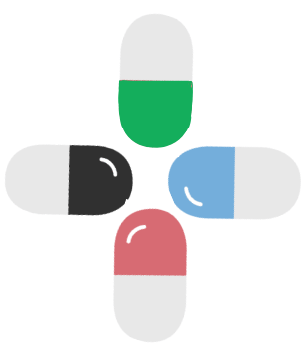
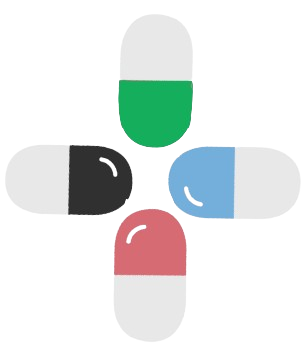
ajout Prise journalière

diff --git a/src/context/MedicationContext.tsx b/src/context/MedicationContext.tsx
@@ -41,6 +41,7 @@ export type Medication = {
 type MedicationContextType = {
   medications: Medication[];
   setMedications: (medications: Medication[]) => void;
+  medToday : Medication[]
 };
 
 // Création du contexte MedicationContext avec une valeur par défaut de undefined.
@@ -70,8 +71,8 @@ export const useMedication = (): MedicationContextType => {
  * @returns {JSX.Element} - Le composant `MedicationProvider` qui enveloppe les enfants.
  */
 export const MedicationProvider: React.FC<{ children: ReactNode }> = ({ children }) => {
-  // État local pour stocker la liste des médicaments.
   const [medications, setMedications] = useState<Medication[]>([]);
+  const [medToday, setMedToday] = useState<Medication[]>([]);
 
   /**
    * Fonction pour charger les médicaments depuis AsyncStorage au démarrage de l'application.
@@ -79,7 +80,6 @@ export const MedicationProvider: React.FC<{ children: ReactNode }> = ({ children
    */
   const loadMedications = async () => {
     try {
-      // Tente de récupérer les médicaments sauvegardés dans AsyncStorage.
       const storedMedications = await AsyncStorage.getItem('medications');
       if (storedMedications) {
         // Si des médicaments sont trouvés, on les parse et les met dans l'état.
@@ -89,11 +89,17 @@ export const MedicationProvider: React.FC<{ children: ReactNode }> = ({ children
       console.error('Erreur lors du chargement des médicaments:', error);
     }
   };
-
-  // Utilisation de useEffect pour appeler loadMedications une seule fois au démarrage.
   useEffect(() => {
     loadMedications();
-  }, []); // Le tableau vide [] garantit que l'effet est exécuté une seule fois lors du montage.
+  }, []); 
+
+  useEffect(() => {
+    if (medications.length > 0) {
+      countMedicationsForToday(medications);
+    }
+  }, [medications]);
+
+
 
   /**
    * Fonction pour mettre à jour les médicaments dans l'état local et dans AsyncStorage.
@@ -106,8 +112,30 @@ export const MedicationProvider: React.FC<{ children: ReactNode }> = ({ children
     await AsyncStorage.setItem('medications', JSON.stringify(newMedications));
   };
 
+
+  const countMedicationsForToday = (medications: Medication[]) => {
+    const dateObject = new Date();
+    const dateString = dateObject.toLocaleDateString('fr-FR');
+    const [jour, mois, annee] = dateString.split('/');
+    const todayIso = `${annee}-${mois}-${jour}`;
+  
+    let medicationsForToday: Medication[] = [];
+  
+    medications.forEach((elem) => {
+      elem.date?.forEach((date) => {
+        console.log("test :", date, todayIso)
+        if (date === todayIso) {
+          medicationsForToday.push(elem);  
+        }
+      });
+    });
+  
+    setMedToday(medicationsForToday);  
+  };
+  
+
   return (
-    <MedicationContext.Provider value={{ medications, setMedications: updateMedications }}>
+    <MedicationContext.Provider value={{ medications, setMedications: updateMedications, medToday  }}>
       {children}
     </MedicationContext.Provider>
   );

diff --git a/src/screenPharmarcie/components/MedicationModal.tsx b/src/screenPharmarcie/components/MedicationModal.tsx
@@ -35,49 +35,49 @@ const MedicationModal: React.FC<MedicationModalProps> = ({ visible=false, onClos
 
 
   const convertToISODate = (date: string): string => {
-    const [day, month, year] = date.split('/');
+    const [year, month, day] = date.split('/');
     return `${year}-${month}-${day}`;
   };
-
-
-  const generateDatesToTake = (): string[] => {
-    console.log(startDate, endDate)
-    
+  
+  const generateDatesToTake = () => {
     const dates: string[] = [];
     let currentDate = new Date(convertToISODate(startDate));
-    const FinDate = new Date(convertToISODate(endDate));
-    console.log(currentDate, endDate)
-    while (currentDate <= FinDate) {
+    const finDate = new Date(convertToISODate(endDate));
+  
+   
+    while (currentDate <= finDate) {
       const dayName = currentDate.toLocaleString('fr-FR', { weekday: 'long' }).toLowerCase();
+  
       if (selectedDays[dayName]) {
         const formattedDate = currentDate.toISOString().split('T')[0];
         dates.push(formattedDate);
       }
+
       currentDate.setDate(currentDate.getDate() + 1);
     }
+    console.log(dates)
     return dates;
   };
+  
 
 
   const addLocalPrescription = async (): Promise<void> => {
     try {
       const newMedication: Medication = {
         id: medication.id,
-        isoStartDate: startDate,
-        isoEndDate: endDate,
+        isoStartDate : startDate,
+        isoEndDate:endDate,
         name: medication.name,
         pharmaForm: medication.pharmaForm,
         administrationRoutes: medication.administrationRoutes,
-        time: time,
+        time : time,
         jours: selectedDays,
         date: generateDatesToTake(),
         count: 1,
       };
-  
       const storedMedications = await AsyncStorage.getItem('medications');
       const existingMedications: Medication[] = storedMedications ? JSON.parse(storedMedications) : [];
-      const updatedMedications = [...existingMedications, newMedication];
-      setMedications(updatedMedications);
+      setMedications([...existingMedications, newMedication]);
       Alert.alert('Succès', 'Le médicament a été ajouté avec succès.');
       setStartDate('');
       setEndDate('');
@@ -85,11 +85,10 @@ const MedicationModal: React.FC<MedicationModalProps> = ({ visible=false, onClos
       setSelectedDays({});
       onClose();
     } catch (error) {
-      console.error('Erreur lors de l\'enregistrement du médicament :', error);
+      console.error("Erreur lors de l'enregistrement du médicament :", error);
       Alert.alert('Erreur', 'Une erreur est survenue lors de l\'enregistrement du médicament.');
     }
   };
-  
 
 
   const handleAddMedication = (): void => {

diff --git a/src/screenHome/components/Medicaments.tsx b/src/screenHome/components/Medicaments.tsx
@@ -1,26 +1,28 @@
 import React from 'react';
 import { StyleSheet, View, Image, Dimensions, Text } from 'react-native';
 import ButtonValidate from '../../screenCalendar/components/ButtonValidate';
+import { Medication } from '../../context/MedicationContext';
 
 const { width } = Dimensions.get('window');
 
-const Medicaments = () => {
+const Medicaments = ({ medication }: { medication: Medication }) => {
+
     return (
-        
         <View style={styles.card}>
             <View>
                 <View style={styles.medicineContainer}>
-                    <Text style={styles.medicineText}>Dafalgan 500mg</Text>
+                <Text style={styles.medicineText} numberOfLines={1}  ellipsizeMode="tail" >{medication.name}</Text>
+
                 </View>
                 <View style={styles.content}>
                     <Image  
-                        source={require('../../img/Exemple.png')} 
+                        source={require('../../img/PilePlus.png')} 
                         style={styles.image} 
                         resizeMode="contain" 
                     />
                     <View style={styles.timeContainer}>
-                        <Text style={styles.time}>20:30</Text>
-                        <Text style={styles.route}>Oral</Text>
+                        <Text style={styles.time}>{medication.time}</Text>
+                        <Text style={styles.route}>{medication.administrationRoutes}</Text>
                     </View>
                 </View>
             </View>
@@ -39,7 +41,7 @@ const styles = StyleSheet.create({
         backgroundColor: '#FFF',
         justifyContent: 'space-between',
         elevation: 10, 
-        overflow : 'visible',
+        overflow : 'hidden',
     },
     
     
@@ -50,11 +52,12 @@ const styles = StyleSheet.create({
         alignItems: 'flex-start',
     },
     medicineText: {
-        fontSize: 18, 
+        fontSize: 18,
         color: '#292F35',
         fontWeight: 'bold',
-        flexWrap : 'wrap'
+        flexWrap: 'wrap',
     },
+    
     content: {
         flexDirection: 'row',
         alignItems: 'center',

diff --git a/src/screenHome/components/MedicationRecap.tsx b/src/screenHome/components/MedicationRecap.tsx
@@ -1,49 +1,52 @@
 import React from 'react';
 import { View, Text, StyleSheet, ScrollView } from 'react-native';
 import Medicaments from './Medicaments';
-import LinearGradient from 'react-native-linear-gradient';
+import { useMedication } from '../../context/MedicationContext';
 
 const MedicationRecap = () => {
+    const { medToday } = useMedication();  
+
+
     return (
         <View style={styles.container}>
             <Text style={styles.title}>Aujourd'hui</Text>
-            <ScrollView style={styles.info} horizontal  showsHorizontalScrollIndicator={false} contentContainerStyle={styles.scrollContent}>
-                <View style={styles.medicament}>
-                    <Medicaments />
-                </View>
-                <View style={styles.medicament}>
-                    <Medicaments />
-                </View>
-                <View style={styles.medicament}>
-                    <Medicaments />
-                </View>
+
+            <ScrollView 
+                style={styles.info} 
+                horizontal  
+                showsHorizontalScrollIndicator={false} 
+                contentContainerStyle={styles.scrollContent}
+            >
+                {medToday.map((medicationToday) => (
+                    <View style={styles.medicament}>  
+                        <Medicaments medication={medicationToday} />  
+                    </View>
+                ))}
             </ScrollView>
-            
         </View>
     );
 };
 
 const styles = StyleSheet.create({
     container: {
-        height : '40%',
+        height: '40%',
     },
     title: {
-        color : "#0073C5",
-        fontSize : 18,
+        color: "#0073C5",
+        fontSize: 18,
     },
     info: {
         flexDirection: 'row',
-        flex : 1, 
-        paddingLeft : 10,
+        flex: 1, 
+        paddingLeft: 10,
     },
     scrollContent: {
         justifyContent: 'center', 
-        alignItems: 'center',    
+        alignItems: 'center',   
     },
     medicament: {
         marginRight: 16,
     },
-    
 });
 
 export default MedicationRecap;
